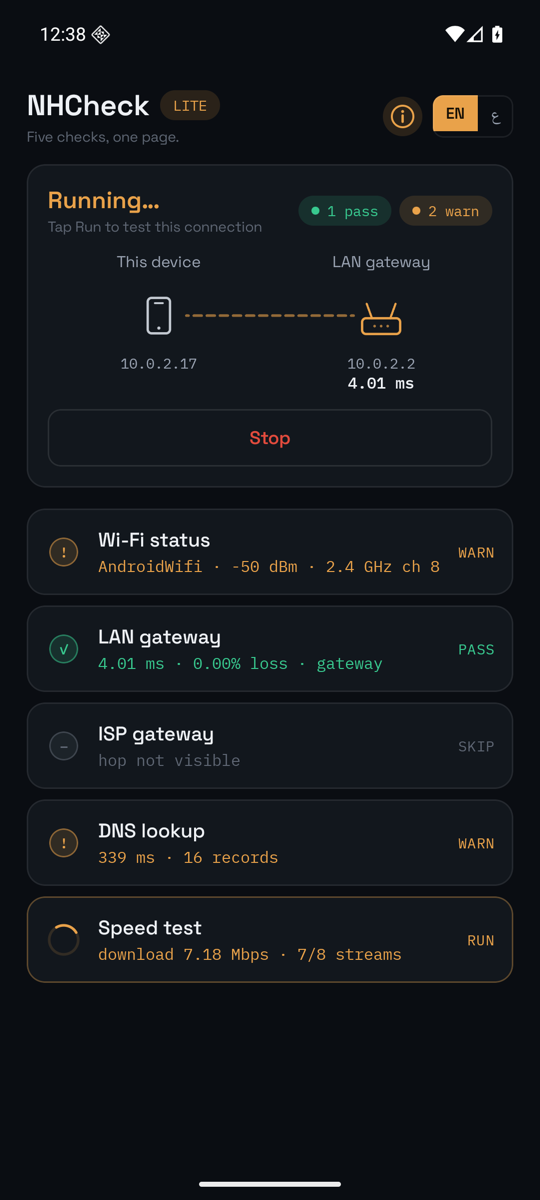
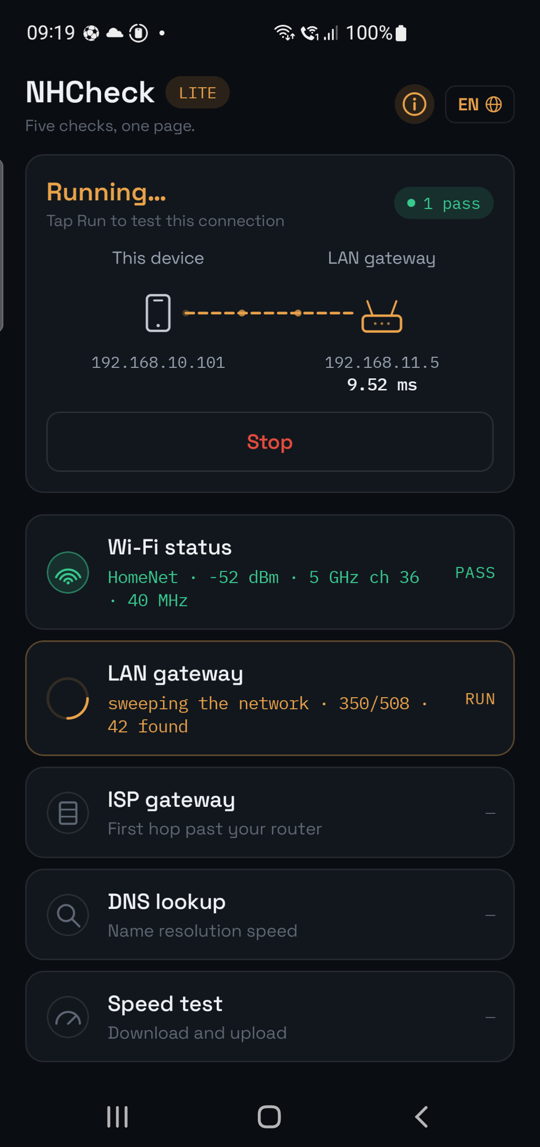
Bring the pages up to 1.3, and the privacy policy back in step with the app
The published policy was last touched on 19 August and no longer described
what the app does. Play's User Data policy judges the listing against this
page, so the four corrections the 1.3 policy review raised are corrections
rather than improvements:

- The public-address row promised "an empty request whose reply is your
  public IP". That fetcher was deleted and api.ipify.org is not in the
  binary, so the page disclosed a request the app no longer makes.
- Nothing mentioned the LAN page, which sweeps the subnet and asks what
  answers for its name over mDNS, SSDP and Bonjour. Those are other
  people's device names, and they are the most personal thing the app
  reads, so they get a section of their own.
- The device row is now the language and appearance choices, not one of
  them.
- "It goes when you uninstall" is not quite true while allowBackup is on:
  both settings are eligible for Android's own backup to the user's Google
  account. The page says so, and says it is the platform doing it.

The location section also picks up the strengthened wording the app now
shows before the system prompt.

The rest follows the 1.3 store listing: the LAN page and the Wi-Fi
analyser, the LAN check's sweep behind the router, the culprit sentence,
six languages in place of two, and a dark/light/system setting. The
screenshots were visibly older than the app — a two-language EN/ar toggle
and a two-hop path — and are retaken from the Play captures, cropped of
[…]

diff --git a/docs.html b/docs.html
@@ -5,7 +5,7 @@
 <meta name="viewport" content="width=device-width, initial-scale=1, viewport-fit=cover" />
 <meta name="theme-color" content="#05070a" />
 <title>Documentation — NHCheck</title>
-<meta name="description" content="What each of NHCheck Lite's five checks measures, and the thresholds behind every verdict." />
+<meta name="description" content="What each of NHCheck Lite's five checks measures, the thresholds behind every verdict, and the Wi-Fi analyser and LAN page behind the rows." />
 <link rel="preconnect" href="https://fonts.googleapis.com" />
 <link rel="preconnect" href="https://fonts.gstatic.com" crossorigin />
 <link href="https://fonts.googleapis.com/css2?family=Space+Grotesk:wght@400;500;600;700&family=IBM+Plex+Mono:wght@400;500;600&display=swap" rel="stylesheet" />
@@ -31,6 +31,8 @@
     <p class="lede">
       Five checks run in order, about thirty seconds in all. The speed test is last
       because it saturates the connection and would corrupt the figures before it.
+      Two of the rows open into a page of their own: the air around you, and the
+      devices on your network.
     </p>
   </div>
 </div>
@@ -43,7 +45,7 @@
       <thead><tr><th>Check</th><th>What it does</th></tr></thead>
       <tbody>
         <tr><td><strong>Wi-Fi status</strong></td><td>Reads signal, noise, channel, band, standard and security, then scans the neighbours and names the clearest channel in the band</td></tr>
-        <tr><td><strong>LAN gateway</strong></td><td>Eight echoes to your router — latency, loss and jitter of the Wi-Fi link itself</td></tr>
+        <tr><td><strong>LAN gateway</strong></td><td>Eight echoes to your router — latency, loss and jitter of the Wi-Fi link itself — then a sweep of the network behind it, counting what answered</td></tr>
         <tr><td><strong>ISP gateway</strong></td><td>Finds the first public router past yours and measures it with six echoes</td></tr>
         <tr><td><strong>DNS lookup</strong></td><td>Resolves a name through your network's resolver and times it</td></tr>
         <tr><td><strong>Speed test</strong></td><td>Download then upload, eight seconds each over parallel streams, measured after a warm-up</td></tr>
@@ -52,8 +54,8 @@
   </div>
 
   <figure class="shot">
-    <img src="assets/screenshot-running.png" width="540" height="1200"
-         alt="NHCheck Lite mid-run: the path diagram above a Stop button, the finished checks showing their figures, and the speed test reading download 7.18 Mbps over 7 of 8 streams." />
+    <img src="assets/screenshot-running.png" width="540" height="1147"
+         alt="NHCheck Lite mid-run: the path diagram above a Stop button, Wi-Fi status already passed at −52 dBm on 5 GHz channel 36, and the LAN gateway row sweeping the network — 350 of 508 addresses asked, 42 found." />
     <figcaption>A run in progress — each check reports as it finishes</figcaption>
   </figure>
 
@@ -109,12 +111,38 @@
     reason, never as <span class="mono">0.00 Mbps</span>.
   </p>
 
+  <h2>Behind two of the rows</h2>
+  <p>
+    <strong>The Wi-Fi row</strong> opens an analyser. Every network in range is drawn
+    as an arc over the spectrum it occupies, so two networks nominally on different
+    channels are visibly on top of each other when they overlap. Beside it, every radio
+    ranked by strength, and your own link traced second by second — signal as bars,
+    signal-to-noise as a red line over them — so a sag shows as a shape rather than
+    disappearing into an average.
+  </p>
+  <p>
+    <strong>The LAN row</strong> opens the list of what is on your network: every
+    address that answered the sweep, with the name it publishes — a hostname, a UPnP
+    name, or the service it advertises — your router and this phone marked. The names
+    come from the announcements those devices already broadcast, over mDNS, SSDP and
+    Bonjour. They are read on your device, shown on it, and held only while the app is
+    open; see the <a href="privacy.html">privacy policy</a>.
+  </p>
+
+  <figure class="shot">
+    <img src="assets/screenshot-lan.png" width="540" height="1147"
+         alt="The LAN page: 47 answered the sweep, listed by address — some naming themselves, others marked as having given no name, one tagged Android TV and This device, another tagged web page — above an Ask again button." />
+    <figcaption>The LAN page — what answered, and what it calls itself</figcaption>
+  </figure>
+
   <h2>Permission</h2>
   <p>
     Android requires a location permission before an app may read the connected Wi-Fi
-    network's name or scan for neighbours. NHCheck Lite asks for it for that alone and
-    never reads your position. Decline it and every check still runs — you lose the
-    network name and the channel advice. See the <a href="privacy.html">privacy policy</a>.
+    network's name or scan for neighbours. NHCheck Lite asks for it for that alone: it
+    never requests a location fix, never touches GPS, and never reads location in the
+    background. Decline it and every check still runs — you lose the network name, the
+    channel advice and the analyser's neighbour list. See the
+    <a href="privacy.html">privacy policy</a>.
   </p>
 
   <h2>Requirements</h2>
@@ -123,7 +151,8 @@
       <tbody>
         <tr><td><strong>Platform</strong></td><td>Android phone or tablet</td></tr>
         <tr><td><strong>Price</strong></td><td>Free — no subscription, no advertising</td></tr>
-        <tr><td><strong>Languages</strong></td><td>English and العربية</td></tr>
+        <tr><td><strong>Languages</strong></td><td>English, العربية, Español, اردو, Português and Français — switched in place, with Arabic and Urdu laid out right to left</td></tr>
+        <tr><td><strong>Appearance</strong></td><td>Dark, light, or whatever the phone is set to</td></tr>
         <tr><td><strong>Account</strong></td><td>None</td></tr>
       </tbody>
     </table>

diff --git a/privacy.html b/privacy.html
@@ -5,7 +5,7 @@
 <meta name="viewport" content="width=device-width, initial-scale=1, viewport-fit=cover" />
 <meta name="theme-color" content="#05070a" />
 <title>Privacy — NHCheck</title>
-<meta name="description" content="NHCheck Lite collects nothing: no account, no analytics, no tracking. What a run contacts, and why Android asks for a location permission." />
+<meta name="description" content="NHCheck Lite collects nothing: no account, no analytics, no tracking. What a run contacts, what the LAN page reads on your own network, and why Android asks for a location permission." />
 <link rel="preconnect" href="https://fonts.googleapis.com" />
 <link rel="preconnect" href="https://fonts.gstatic.com" crossorigin />
 <link href="https://fonts.googleapis.com/css2?family=Space+Grotesk:wght@400;500;600;700&family=IBM+Plex+Mono:wght@400;500;600&display=swap" rel="stylesheet" />
@@ -26,7 +26,7 @@
 
 <div class="page-head">
   <div class="shell">
-    <p class="eyebrow">Last updated 19 August 2026</p>
+    <p class="eyebrow">Last updated 20 September 2026</p>
     <h1>NHCheck Lite collects nothing</h1>
     <p class="lede">
       No account, no analytics, no crash reporting, no advertising, no third-party
@@ -45,8 +45,14 @@
 
   <h2>What stays on the device</h2>
   <p>
-    Your language choice, so it is remembered next time. That is all, and it goes when
-    you uninstall the app. Results are held only while the app is open.
+    Your language and appearance choices, so they are remembered next time. That is
+    all. Results are held only while the app is open.
+  </p>
+  <p>
+    Both settings go when you uninstall the app. They are also small enough to be
+    eligible for Android's own backup to your Google account — a platform feature,
+    switched on or off in your device settings, not something this app operates.
+    Nothing reaches us either way: there is no server behind the app.
   </p>
 
   <h2>What a run sends</h2>
@@ -59,7 +65,6 @@
         <tr><td><strong>The first public router past it</strong></td><td>Probes to find it, then echo requests to measure it</td></tr>
         <tr><td><strong>A DNS resolver</strong></td><td>One name lookup, to time it. No page is fetched.</td></tr>
         <tr><td><strong>Cloudflare</strong></td><td>Filler data down and up for eight seconds each, to measure throughput</td></tr>
-        <tr><td><strong>A public-address service</strong></td><td>An empty request whose reply is your public IP, shown on your own screen</td></tr>
       </tbody>
     </table>
   </div>
@@ -69,13 +74,30 @@
     device name, no account, no results.
   </p>
 
+  <h2>Looking at your own network</h2>
+  <p>
+    When you open the LAN page, the app sends a probe to every address on your local
+    network and asks whatever answers what it is called, over mDNS, SSDP and Bonjour —
+    the same announcements those devices already broadcast to the network. The names
+    and addresses it finds are shown to you and held only while the app is open. They
+    are never sent anywhere: there is no server behind this app.
+  </p>
+  <p>
+    A device name is often a person's name with a machine after it, so it is the most
+    personal thing the app ever reads. It is read on your device, shown on your device,
+    and gone when you close the app.
+  </p>
+
   <h2>The location permission</h2>
   <p>
-    Android requires it before the system will disclose the connected Wi-Fi network's
-    name or return scan results, because a list of nearby networks can be used to infer
-    position. The app asks for it for that reason alone: it never requests a location
-    fix and never touches GPS. Decline it and every check still runs. You can withdraw
-    it in <strong>Settings → Apps → NHCheck Lite → Permissions</strong>.
+    Android requires the Location permission before any app may read the Wi-Fi network
+    name or scan for nearby networks, because a list of nearby networks can be used to
+    infer position. It is used for that alone — your position is never read, stored or
+    sent. The app never requests a location fix, never touches GPS, and never accesses
+    location in the background. Nothing is asked at launch: the app explains why before
+    the system prompt appears. Decline it and every check still runs; you lose the
+    network name and the channel advice. You can withdraw it at any time in
+    <strong>Settings → Apps → NHCheck Lite → Permissions</strong>.
   </p>
 
   <h2>Your rights</h2>

diff --git a/index.html b/index.html
@@ -5,7 +5,7 @@
 <meta name="viewport" content="width=device-width, initial-scale=1, viewport-fit=cover" />
 <meta name="theme-color" content="#05070a" />
 <title>NHCheck</title>
-<meta name="description" content="NHCheck makes network diagnostic tools. The first is NHCheck Lite for Android: five real checks, one page, a verdict each." />
+<meta name="description" content="NHCheck makes network diagnostic tools. The first is NHCheck Lite for Android: five real checks, one page, a verdict each — plus a Wi-Fi analyser and a list of what is on your network." />
 <link rel="preconnect" href="https://fonts.googleapis.com" />
 <link rel="preconnect" href="https://fonts.gstatic.com" crossorigin />
 <link href="https://fonts.googleapis.com/css2?family=Space+Grotesk:wght@400;500;600;700&family=IBM+Plex+Mono:wght@400;500;600&display=swap" rel="stylesheet" />
@@ -39,12 +39,12 @@
       <a class="btn btn-primary" href="#get">Get it</a>
       <a class="btn btn-ghost" href="docs.html">Documentation</a>
     </div>
-    <p class="hero-note">English &amp; العربية · no account, no tracking</p>
+    <p class="hero-note">Six languages · dark or light · no account, no tracking</p>
 
     <figure class="shot">
-      <img src="assets/screenshot-result.png" width="540" height="1200"
-           alt="NHCheck Lite after a run: the path from this device to the LAN gateway with its measured latency, a recommendation to turn on WPA2 or WPA3, and the five checks with their verdicts — Wi-Fi WARN, LAN gateway PASS, ISP gateway SKIP, DNS WARN, speed test PASS." />
-      <figcaption>A finished run — the path, the fix, and a verdict each</figcaption>
+      <img src="assets/screenshot-result.png" width="540" height="1147"
+           alt="NHCheck Lite after a run: one framed line reading that nothing is broken and name lookups are the slow step; the path from this device through the LAN gateway and a second router out to the ISP gateway, each hop with its measured latency; four passed and one warned; and a recommendation to move the network to channel 149." />
+      <figcaption>A finished run — the culprit named, the path drawn, a verdict each</figcaption>
     </figure>
   </div>
 </section>
@@ -56,7 +56,7 @@
       <table>
         <tbody>
           <tr><td><strong>Wi-Fi status</strong></td><td>Signal, channel, interference and security — and the clearest channel to move to</td></tr>
-          <tr><td><strong>LAN gateway</strong></td><td>Eight echoes to your router: a fault here is inside the house</td></tr>
+          <tr><td><strong>LAN gateway</strong></td><td>Eight echoes to your router, then a sweep of the network behind it: a fault here is inside the house</td></tr>
           <tr><td><strong>ISP gateway</strong></td><td>The first public hop past it: a fault here is on the line</td></tr>
           <tr><td><strong>DNS lookup</strong></td><td>A name resolved and timed</td></tr>
           <tr><td><strong>Speed test</strong></td><td>Real download and upload, eight seconds each</td></tr>
@@ -65,7 +65,15 @@
     </div>
     <p style="margin-top:18px;color:var(--text-muted)">
       Every check performs a real network operation — nothing is simulated. Each ends
-      in PASS, WARN or FAIL, and whatever fell short comes with the fix behind it.
+      in PASS, WARN or FAIL, and whatever fell short comes with the fix behind it. The
+      run closes by naming the culprit in one sentence, taken from the earliest failure
+      along the path rather than the loudest number.
+    </p>
+    <p style="margin-top:18px;color:var(--text-muted)">
+      Two rows open further: the Wi-Fi row into an analyser that draws every network in
+      range over the spectrum it occupies, and the LAN row into the list of what
+      answered on your network, each by the name it publishes.
+      <a href="docs.html">Both are described in the documentation</a>.
     </p>
   </div>
 </section>

diff --git a/support.html b/support.html
@@ -61,6 +61,10 @@
           <td>Normal — those routers often ignore probes. It is not a fault, and the other checks are unaffected.</td>
         </tr>
         <tr>
+          <td><strong>Devices on the LAN page "gave no name"</strong></td>
+          <td>They answered the sweep but publish no name over mDNS, SSDP or Bonjour — common for cameras, plugs and printers. The address is still theirs.</td>
+        </tr>
+        <tr>
           <td><strong>Figures differ from another app</strong></td>
           <td>This one measures steady state over parallel streams, after discarding the warm-up.</td>
         </tr>

diff --git a/README.md b/README.md
@@ -30,9 +30,21 @@ work from a subpath as well as from a domain root.
 
 ## Notes
 
-- English only for now. The app ships English and Arabic; an Arabic mirror would
-  be a copy of each page with `dir="rtl"` plus a switch in the top bar.
+- The pages describe **1.3 (versionCode 19)**, the build prepared for Play. They
+  deliberately leave out the `cellular` branch, which is not shipped: when it
+  does ship, the privacy policy gains the mobile network — the operator, the
+  radio and signal, and the identities of the cells in range — and the in-app
+  location disclosure has to say so first.
+- English only for now. The app itself ships six languages (English, Arabic,
+  Spanish, Urdu, Portuguese, French); an Arabic mirror of this site would be a
+  copy of each page with `dir="rtl"` plus a switch in the top bar.
 - Every threshold quoted in `docs.html` is one the app actually applies. When a
   threshold changes in the app, change it here too.
+- `privacy.html` is what Play's User Data policy is judged against, so it has to
+  keep describing the app exactly. `android-lite/play/policy-review.md` in the
+  app repository is where that is checked each release.
+- The screenshots come from `android-lite/play/graphics/screenshots-phone/en-US/`
+  (1, 7 and 8), cropped of their letterboxing and halved to 540 wide. They are
+  demo captures: the LAN names are `Device-NN` stand-ins, never real hostnames.
 - The store link in `index.html` is a placeholder until the Google Play listing
   is live.
